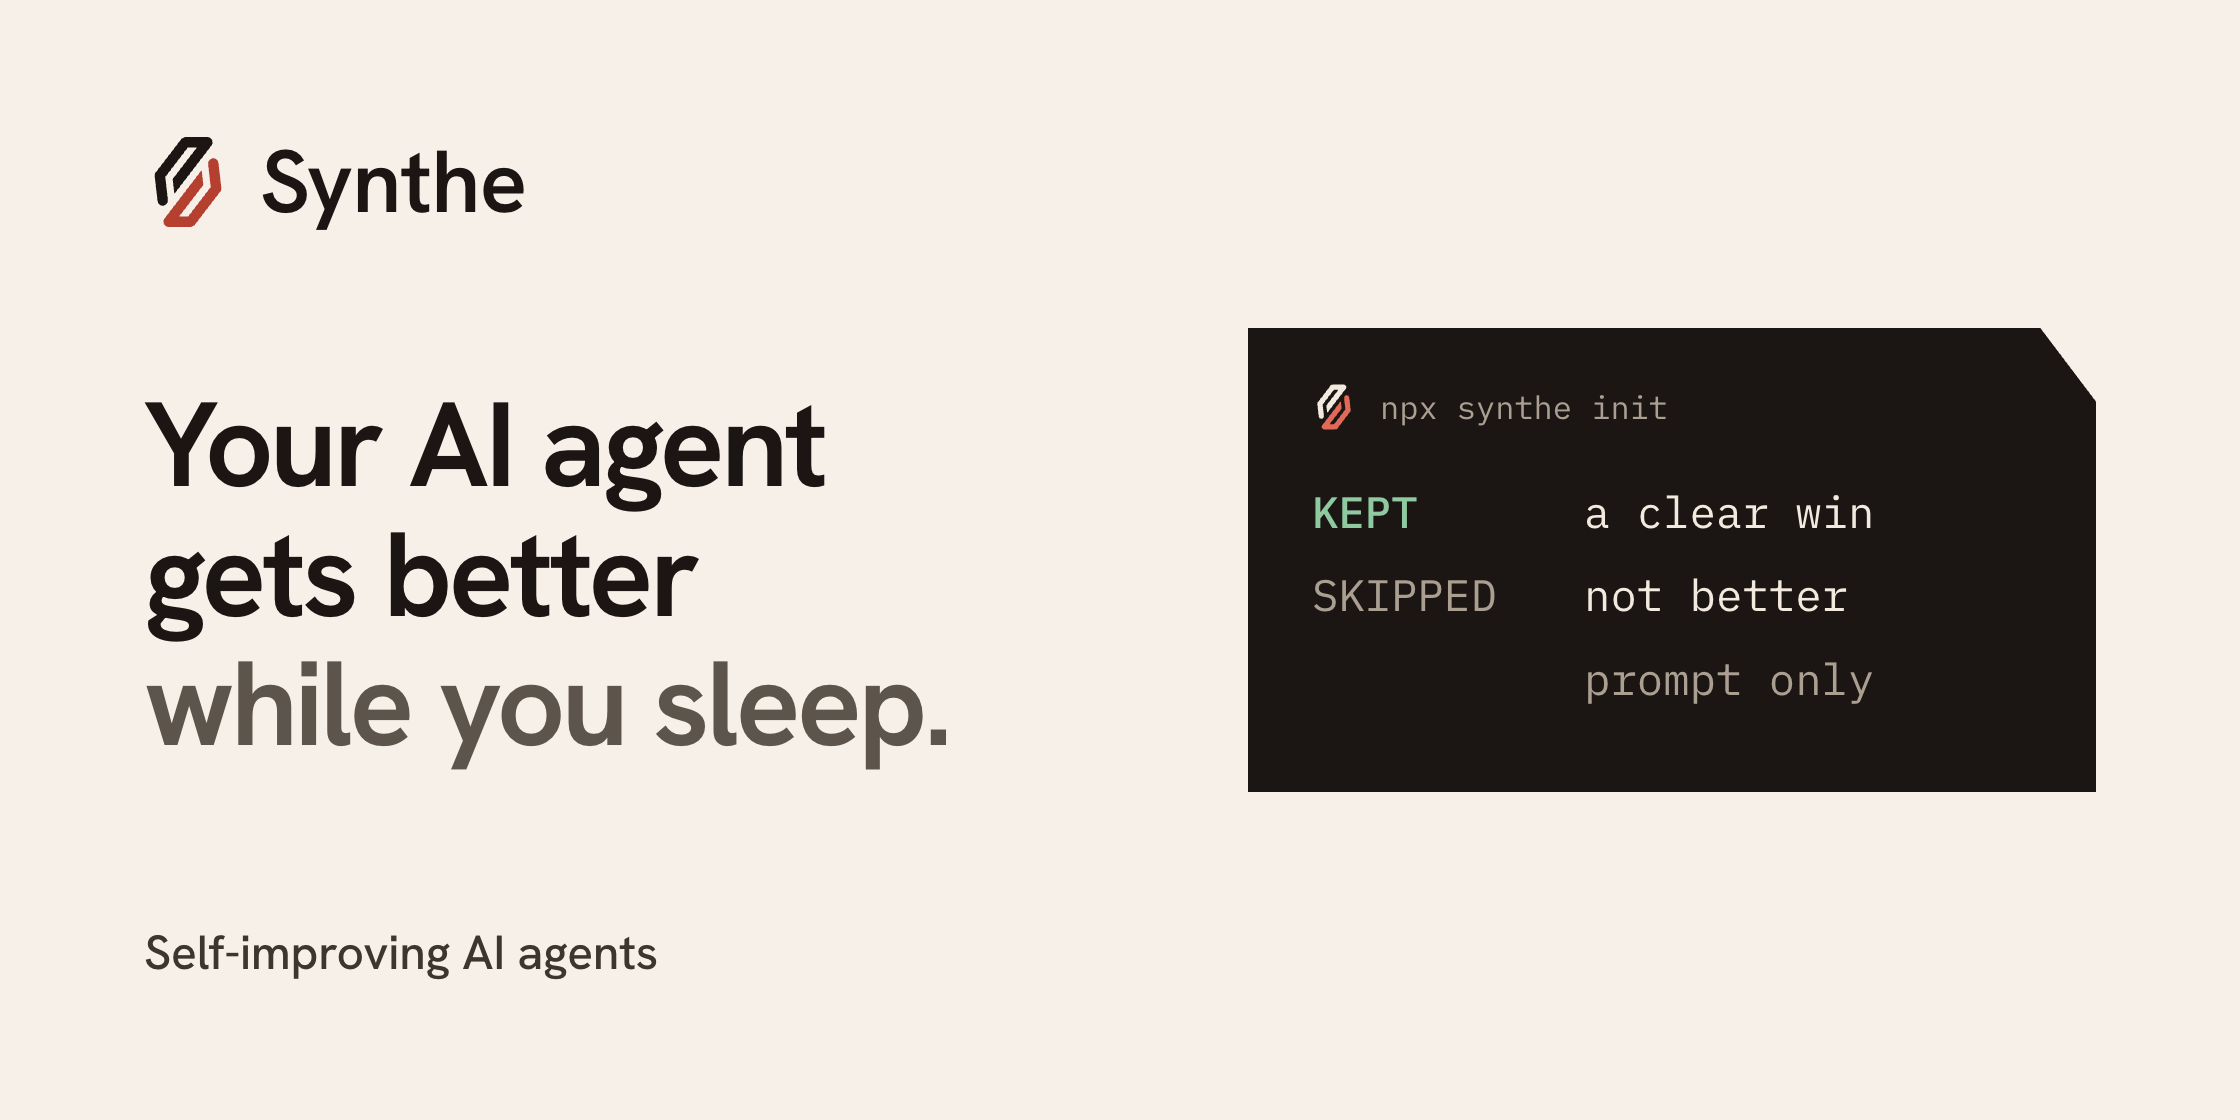
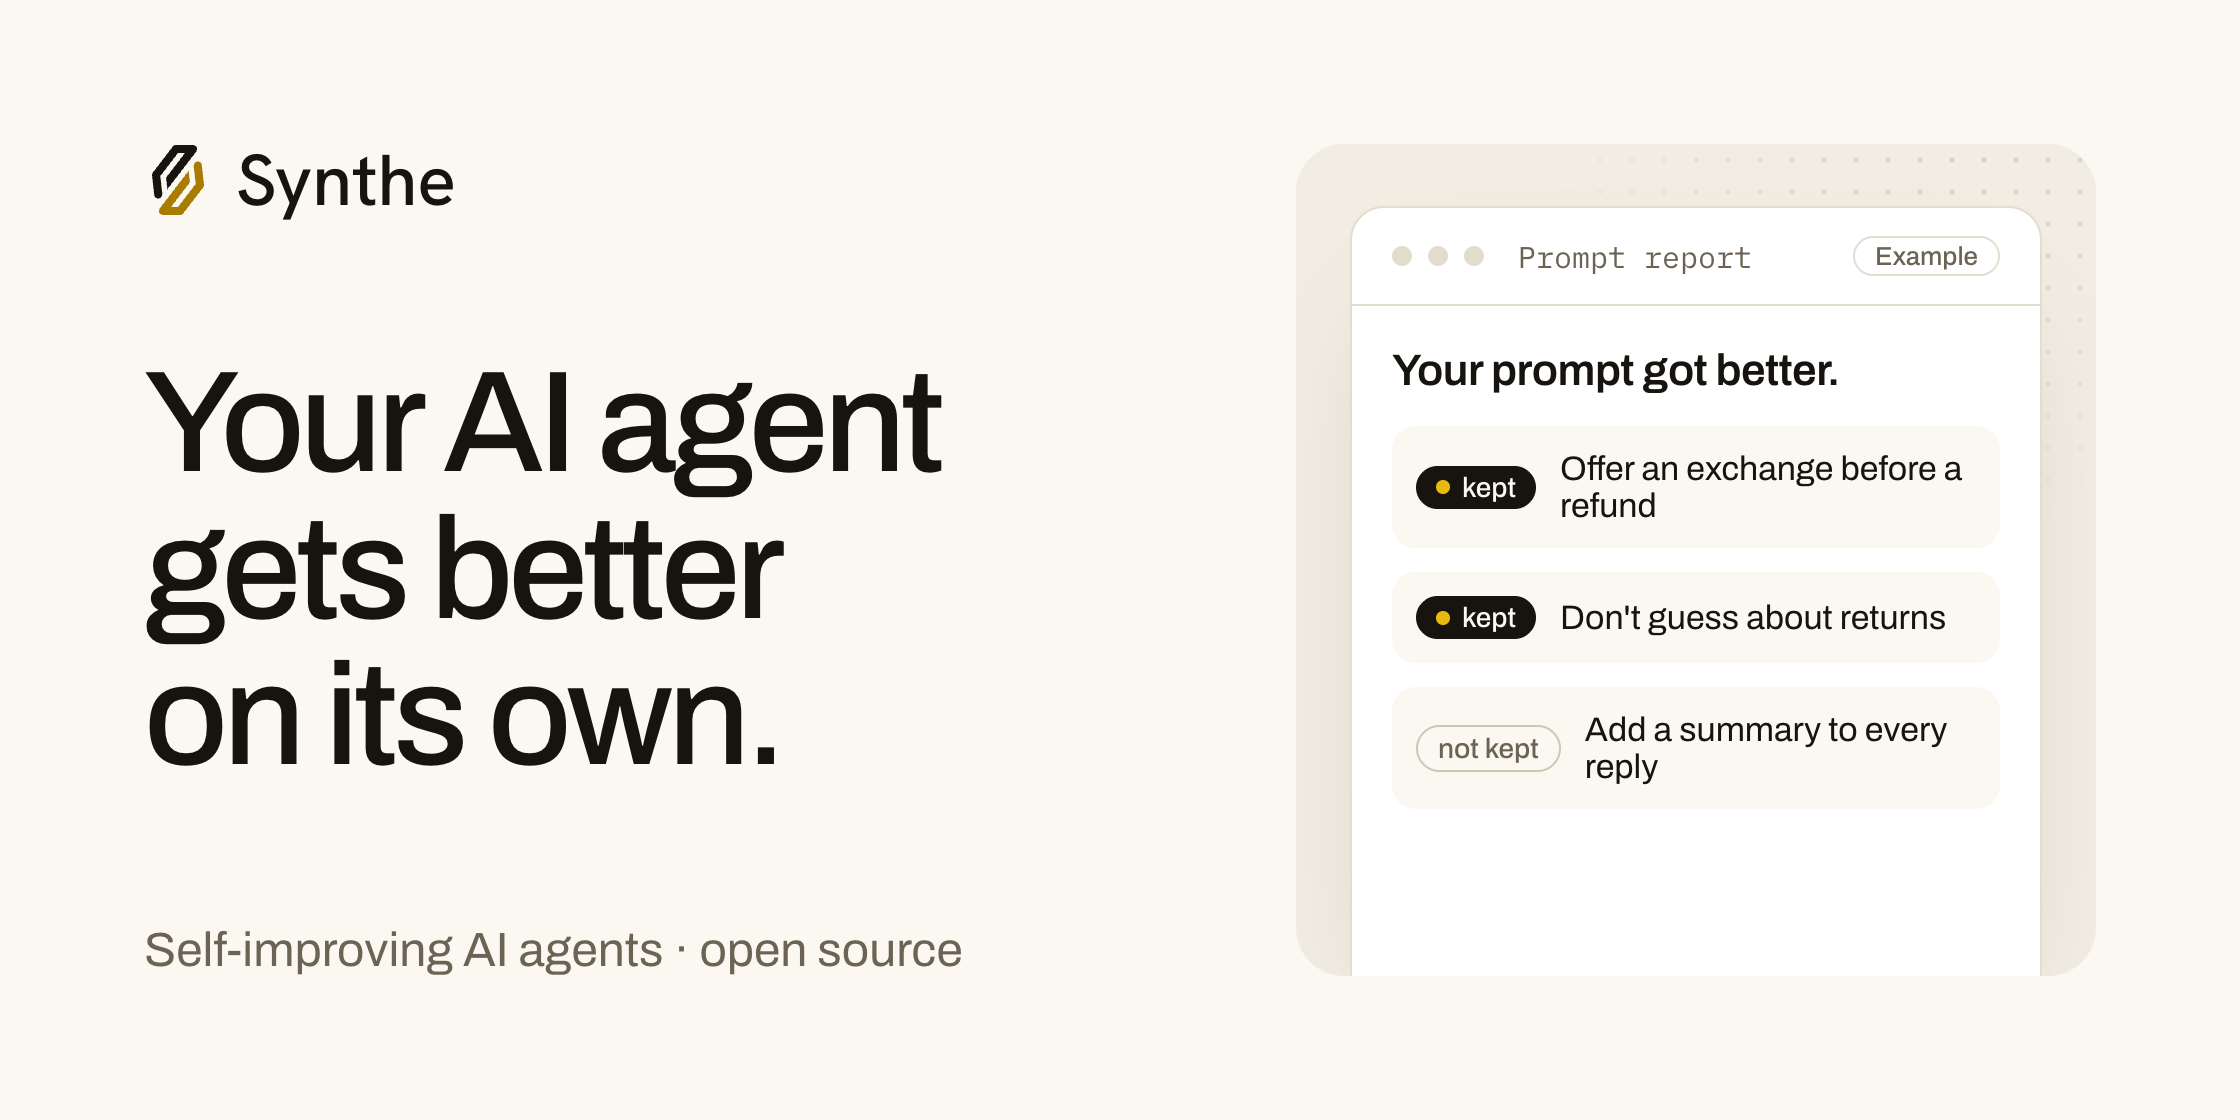
Social card: new tagline in the homepage style
og-image.png re-rendered from tools/og-image.html: 'Your AI agent gets better
on its own.', the official mark in ink and gold, and an example prompt report.
Pages link it as ?v=5 so LinkedIn and X fetch the new card.

diff --git a/tools/og-image.html b/tools/og-image.html
@@ -9,42 +9,50 @@
      "/Applications/Google Chrome.app/Contents/MacOS/Google Chrome" --headless=new --hide-scrollbars \
        --window-size=1120,560 --force-device-scale-factor=2 --screenshot=og-image.png \
        http://localhost:8790/tools/og-image.html
-     Two colors carry meaning: ink is the agent's half of the mark, coral is yours. The card uses the site's
-     light tokens (--bg, --ink, --muted, --agent, --human) and the dark mode's status colors on the ink card. -->
+     The card matches the homepage: paper, ink, gold only as a marker, and an example prompt report. -->
 <link rel="stylesheet" href="/site.css?v=acea6bda" />
 <style>
   html, body { margin: 0; width: 1120px; height: 560px; overflow: hidden; }
   body { background: var(--bg); color: var(--ink); font-family: var(--sans); -webkit-font-smoothing: antialiased; }
-  .card { position: absolute; inset: 0; display: grid; grid-template-columns: 1fr 424px; align-items: center; padding: 0 72px; gap: 56px; }
-  .left { display: flex; flex-direction: column; height: 424px; justify-content: space-between; }
-  .lockup { display: flex; align-items: center; gap: 14px; font-weight: 600; font-size: 44px; line-height: 1; letter-spacing: -0.01em; }
-  .lockup svg { width: 44px; height: 46px; flex: none; }
-  h1 { margin: 0; font-weight: 600; font-size: 60px; line-height: 1.08; letter-spacing: -0.03em; }
-  h1 span { color: var(--muted); }
-  .cat { margin: 0; font-size: 24px; font-weight: 500; letter-spacing: -0.005em; color: var(--ink-soft); }
-  .term { background: #1b1613; color: #f2eadf; padding: 28px 32px 36px; font-family: var(--mono); font-size: 22px; line-height: 1.9;
-    clip-path: polygon(0 0, calc(100% - 28px) 0, 100% 37px, 100% 100%, 0 100%); }
-  .head { display: flex; align-items: center; gap: 12px; margin-bottom: 20px; font-size: 16px; color: #ab9f92; line-height: 1; }
-  .head svg { width: 22px; height: 23px; }
-  .head svg .a { fill: #f2eadf; } .head svg .b { fill: #e06a57; }
-  .row { display: grid; grid-template-columns: 136px 1fr; white-space: nowrap; }
-  .ok { color: #8fc9a0; font-weight: 500; }
-  .no { color: #f2607e; font-weight: 500; }
-  .dim { color: #ab9f92; }
+  .card { position: absolute; inset: 0; display: grid; grid-template-columns: 1fr 400px; align-items: center; padding: 0 72px; gap: 48px; }
+  .left { display: flex; flex-direction: column; height: 416px; justify-content: space-between; }
+  .lockup { display: flex; align-items: center; gap: 12px; font-family: var(--wordmark); font-weight: 500; font-size: 36px; line-height: 1; }
+  .lockup .mark { width: 34px; height: 36px; }
+  h1 { margin: 0; font-size: 72px; line-height: 1.02; letter-spacing: -0.035em; font-weight: 500 !important; }
+  .cat { margin: 0; font-size: 24px; color: var(--muted); }
+  .panel { position: relative; border-radius: 24px; background: #f1ede2; padding: 32px 28px 0; height: 416px; box-sizing: border-box; overflow: hidden; }
+  .panel::before { content: ""; position: absolute; inset: 0; background-image: radial-gradient(rgba(23, 20, 16, .14) 1px, transparent 1.5px); background-size: 16px 16px;
+    -webkit-mask-image: radial-gradient(ellipse 80% 70% at 85% 0%, #000 0, transparent 70%); mask-image: radial-gradient(ellipse 80% 70% at 85% 0%, #000 0, transparent 70%); }
+  .report { position: relative; background: var(--card); border-radius: 16px 16px 0 0; box-shadow: 0 0 0 1px var(--line), 0 32px 64px -32px rgba(23, 20, 16, .28); height: 100%; }
+  .tab { display: flex; align-items: center; gap: 8px; padding: 14px 20px; border-bottom: 1px solid var(--line); font: 15px var(--mono); color: var(--muted); }
+  .tab i { width: 10px; height: 10px; border-radius: 50%; background: var(--line); }
+  .tab .tag { margin-left: auto; font: 500 13px var(--sans); border: 1px solid var(--line); border-radius: 999px; padding: 2px 10px; }
+  .body { padding: 20px; display: grid; gap: 12px; }
+  .body h2 { margin: 0 0 4px; font-size: 22px; font-weight: 600 !important; letter-spacing: -0.01em; }
+  .row { display: flex; align-items: center; gap: 12px; padding: 12px; border-radius: 12px; background: var(--bg); font-size: 17px; }
+  .chip { display: inline-flex; align-items: center; gap: 6px; flex: none; font: 500 14px var(--sans); border-radius: 999px; padding: 3px 10px; }
+  .kept { background: var(--ink); color: var(--bg); }
+  .kept::before { content: ""; width: 7px; height: 7px; border-radius: 50%; background: var(--gold-fill); }
+  .no { border: 1px solid var(--line2); color: var(--muted); }
 </style>
 </head>
 <body>
   <div class="card">
     <div class="left">
       <div class="lockup"><svg class="mark" viewBox="0 0 275 290" aria-hidden="true"><path class="half a" d="M 137.089 36.089 L 121.248 56.837 65.850 129.267 74.001 201.107 C 75.025 210.118 69.339 218.084 60.498 219.675 51.929 221.178 43.437 215.697 41.616 206.835 L 32.573 126.506 C 32.187 123.074 32.649 118.958 34.819 116.127 L 84.936 50.749 115.553 10.674 C 118.873 6.328 123.405 3.381 129.084 3.381 L 199.032 3.381 C 205.962 3.382 211.797 8.026 213.985 14.448 215.933 20.150 214.783 26.111 211.010 30.731 L 94.495 182.341 89.217 135.584 146.096 61.503 165.499 36.165 Z"/><path class="half b" d="M 137.911 253.913 L 153.752 233.165 209.151 160.735 200.999 88.895 C 199.976 79.884 205.661 71.918 214.503 70.327 223.072 68.824 231.564 74.305 233.384 83.167 L 242.427 163.496 C 242.814 166.928 242.352 171.044 240.182 173.875 L 190.065 239.253 159.448 279.328 C 156.127 283.674 151.595 286.621 145.916 286.621 L 75.968 286.621 C 69.039 286.620 63.204 281.976 61.016 275.554 59.067 269.852 60.218 263.891 63.991 259.271 L 180.506 107.661 185.784 154.418 128.905 228.499 109.501 253.837 Z"/></svg>Synthe</div>
-      <h1>Your AI agent<br>gets better<br><span>while you sleep.</span></h1>
-      <p class="cat">Self-improving AI agents</p>
+      <h1>Your AI agent gets better on its own.</h1>
+      <p class="cat">Self-improving AI agents · open source</p>
     </div>
-    <div class="term" aria-hidden="true">
-      <div class="head"><svg class="mark" viewBox="0 0 275 290"><path class="half a" d="M 137.089 36.089 L 121.248 56.837 65.850 129.267 74.001 201.107 C 75.025 210.118 69.339 218.084 60.498 219.675 51.929 221.178 43.437 215.697 41.616 206.835 L 32.573 126.506 C 32.187 123.074 32.649 118.958 34.819 116.127 L 84.936 50.749 115.553 10.674 C 118.873 6.328 123.405 3.381 129.084 3.381 L 199.032 3.381 C 205.962 3.382 211.797 8.026 213.985 14.448 215.933 20.150 214.783 26.111 211.010 30.731 L 94.495 182.341 89.217 135.584 146.096 61.503 165.499 36.165 Z"/><path class="half b" d="M 137.911 253.913 L 153.752 233.165 209.151 160.735 200.999 88.895 C 199.976 79.884 205.661 71.918 214.503 70.327 223.072 68.824 231.564 74.305 233.384 83.167 L 242.427 163.496 C 242.814 166.928 242.352 171.044 240.182 173.875 L 190.065 239.253 159.448 279.328 C 156.127 283.674 151.595 286.621 145.916 286.621 L 75.968 286.621 C 69.039 286.620 63.204 281.976 61.016 275.554 59.067 269.852 60.218 263.891 63.991 259.271 L 180.506 107.661 185.784 154.418 128.905 228.499 109.501 253.837 Z"/></svg>npx synthe init</div>
-      <div class="row"><span class="ok">KEPT</span><span>a clear win</span></div>
-      <div class="row"><span class="dim">SKIPPED</span><span>not better</span></div>
-      <div class="row"><span></span><span class="dim">prompt only</span></div>
+    <div class="panel" aria-hidden="true">
+      <div class="report">
+        <div class="tab"><i></i><i></i><i></i>&nbsp;Prompt report<span class="tag">Example</span></div>
+        <div class="body">
+          <h2>Your prompt got better.</h2>
+          <div class="row"><span class="chip kept">kept</span><span>Offer an exchange before a refund</span></div>
+          <div class="row"><span class="chip kept">kept</span><span>Don't guess about returns</span></div>
+          <div class="row"><span class="chip no">not kept</span><span>Add a summary to every reply</span></div>
+        </div>
+      </div>
     </div>
   </div>
 </body>

diff --git a/index.html b/index.html
@@ -13,7 +13,7 @@
     <title>Synthe: your AI agent gets better on its own</title>
     <meta property="og:title" content="Synthe: self-improving AI agents" />
     <meta property="og:description" content="You say what good looks like. Synthe tests changes and keeps only what wins." />
-    <meta property="og:image" content="https://synthe.live/og-image.png?v=4" />
+    <meta property="og:image" content="https://synthe.live/og-image.png?v=5" />
     <meta property="og:image:width" content="2240" />
     <meta property="og:image:height" content="1120" />
     <meta property="og:image:alt" content="Synthe: your AI agent gets better on its own. Self-improving AI agents." />

diff --git a/status.html b/status.html
@@ -13,7 +13,7 @@
     <title>Limits and your data · Synthe</title>
     <meta property="og:title" content="Limits and your data · Synthe" />
     <meta property="og:description" content="Synthe's limits in plain words, where your prompt and key go, how this site handles data, and how to report a security problem." />
-    <meta property="og:image" content="https://synthe.live/og-image.png?v=4" />
+    <meta property="og:image" content="https://synthe.live/og-image.png?v=5" />
     <meta property="og:url" content="https://synthe.live/status.html" />
     <meta property="og:type" content="website" />
     <meta property="og:site_name" content="Synthe" />

diff --git a/docs.html b/docs.html
@@ -13,7 +13,7 @@
     <title>Docs · Synthe</title>
     <meta property="og:title" content="Docs · Synthe" />
     <meta property="og:description" content="Set up Synthe in your agent's GitHub repo with npx synthe init: what you need, the commands, and how to stop or remove it." />
-    <meta property="og:image" content="https://synthe.live/og-image.png?v=4" />
+    <meta property="og:image" content="https://synthe.live/og-image.png?v=5" />
     <meta property="og:url" content="https://synthe.live/docs.html" />
     <meta property="og:type" content="website" />
     <meta property="og:site_name" content="Synthe" />

diff --git a/log.html b/log.html
@@ -13,7 +13,7 @@
     <title>Changelog · Synthe</title>
     <meta property="og:title" content="Changelog · Synthe" />
     <meta property="og:description" content="What shipped in Synthe, the open-source tool that makes an AI agent better on its own." />
-    <meta property="og:image" content="https://synthe.live/og-image.png?v=4" />
+    <meta property="og:image" content="https://synthe.live/og-image.png?v=5" />
     <meta property="og:url" content="https://synthe.live/log.html" />
     <meta property="og:type" content="website" />
     <meta property="og:site_name" content="Synthe" />
